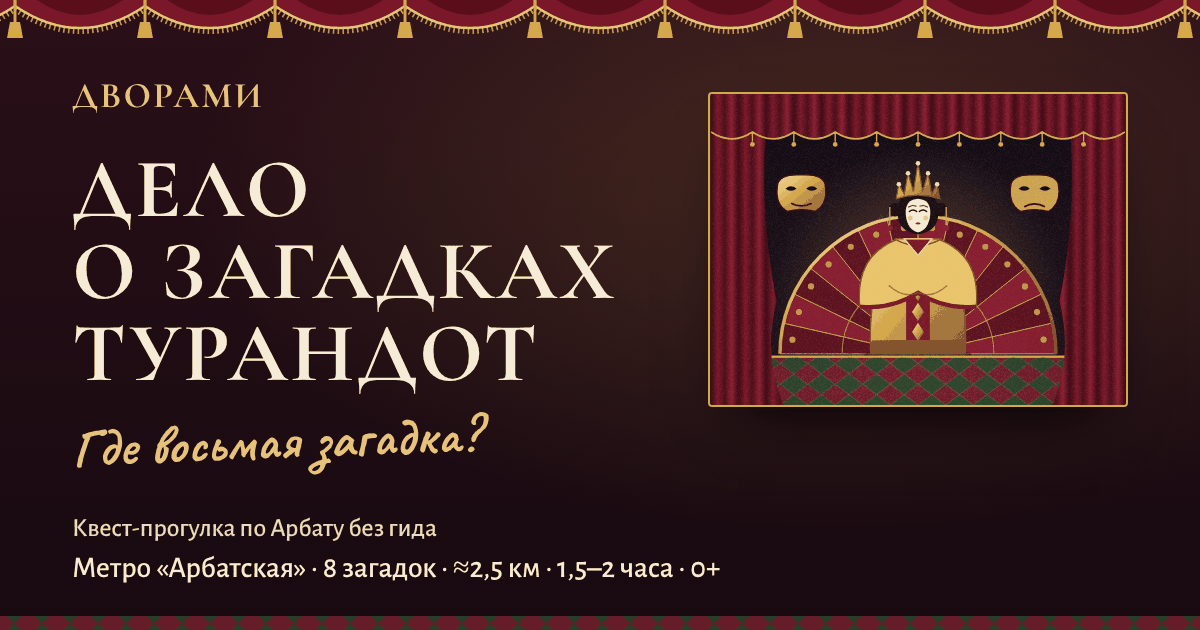
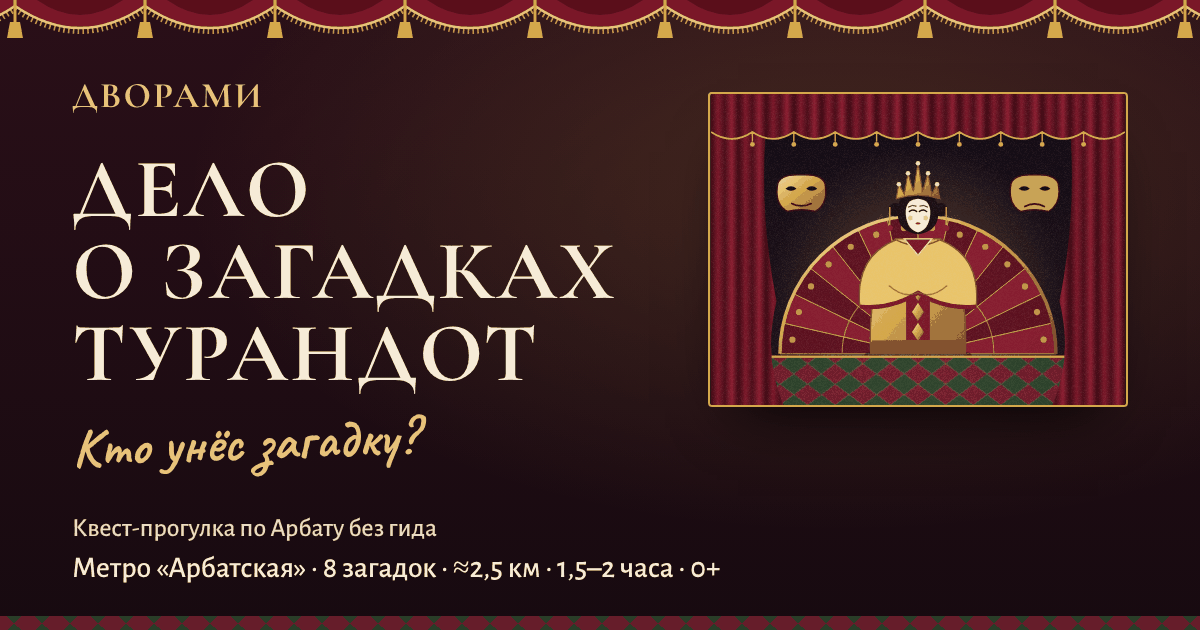
Крючки дел №2, 4, 6, 7 по 7 пунктам стандарта (T-146)
Тизер карточки и og:description начинаются вопросом дела, называют место, действие игрока и ставку; у №6 кнопка «Кто унёс загадку?» вместо «Где восьмая загадка?», OG arbat.png перерисован. Разбор вариантов — docs/marketing/hooks-2026-11-27.md; identity.md и card.md дел, пример в tone-of-voice.md. Правило длины уточнено: решает 4 строки на 390, а не 120 знаков.

Claude-Session: https://claude.ai/code/session_01HTbbVnH6ciWKjadneCiw9c

Changed region(s): [[0.0617, 0.6635, 0.4008, 0.754]]

diff --git a/site/index.html b/site/index.html
@@ -212,7 +212,7 @@
         <span class="qc-cover"><img src="assets/ill/case-02.svg" width="1200" height="900" loading="lazy" alt="Иллюстрация к делу №2: Чистые пруды и Покровка"><span class="qc-rating rating" data-rating="chistye-prudy-bashnya"></span></span>
         <h3 class="qc-title"><span class="qc-no">Дело №2</span> Башня выше Ивана Великого</h3>
         <span class="qc-where">Чистые пруды и&nbsp;Покровка</span>
-        <p>За что молния ударила в&nbsp;башню выше Ивана Великого? Кара за&nbsp;гордыню — или кто-то знал заранее?</p>
+        <p>Кто знал заранее, что в&nbsp;Меншикову башню ударит молния? Проверьте на&nbsp;Чистых прудах, кара&nbsp;ли это за&nbsp;гордыню.</p>
         <p class="qc-meta"><span class="nw">Метро «Чистые пруды» ·</span> <span class="nw">10&nbsp;точек ·</span> <span class="nw">≈3&nbsp;км ·</span> <span class="nw">2–2,5&nbsp;часа · 0+</span></p>
         <div class="qc-foot"><span class="qc-badge">В&nbsp;разработке</span></div>
         <a class="qc-btn" href="moscow/chistye-prudy-bashnya/" aria-label="Кто знал заранее? Подробнее о деле №2" data-track="quest_card" data-track-quest="chistye-prudy-bashnya" data-track-place="home" data-track-cta="ask">Кто знал заранее?</a>
@@ -230,7 +230,7 @@
         <span class="qc-cover"><img src="assets/ill/case-04.svg" width="1200" height="900" loading="lazy" alt="Иллюстрация к делу №4: Красная площадь"><span class="qc-rating rating" data-rating="krasnaya-ploshchad-imena"></span></span>
         <h3 class="qc-title"><span class="qc-no">Дело №4</span> Стёртые имена</h3>
         <span class="qc-where">Красная площадь и&nbsp;Александровский сад</span>
-        <p>Кто вписал чужие записи в&nbsp;ведомость 1936&nbsp;года? Перемерьте Красную площадь и&nbsp;найдите, чья это рука.</p>
+        <p>Кто вписал чужие записи в&nbsp;обмеры Красной площади 1936&nbsp;года? Перемерьте сами и&nbsp;решите, что вернуть на&nbsp;место.</p>
         <p class="qc-meta"><span class="nw">Метро «Александровский сад» ·</span> <span class="nw">9&nbsp;точек ·</span> <span class="nw">≈2&nbsp;км ·</span> <span class="nw">1,5–2&nbsp;часа · 0+</span></p>
         <div class="qc-foot"><span class="qc-badge">В&nbsp;разработке</span></div>
         <a class="qc-btn" href="moscow/krasnaya-ploshchad-imena/" aria-label="Чья это рука? Подробнее о деле №4" data-track="quest_card" data-track-quest="krasnaya-ploshchad-imena" data-track-place="home" data-track-cta="ask">Чья это рука?</a>
@@ -248,16 +248,16 @@
         <span class="qc-cover"><img src="assets/ill/case-06.svg" width="1200" height="900" loading="lazy" alt="Иллюстрация к делу №6: Арбат вечером"><span class="qc-rating rating" data-rating="arbat-gogol"></span></span>
         <h3 class="qc-title"><span class="qc-no">Дело №6</span> Загадки Турандот</h3>
         <span class="qc-where">Арбат и&nbsp;арбатские переулки</span>
-        <p>Какая из&nbsp;масок унесла восьмую загадку Турандот? На&nbsp;афише загадок восемь, а&nbsp;свитков у&nbsp;принцессы семь.</p>
+        <p>Какая из&nbsp;трёх масок унесла у&nbsp;принцессы Турандот восьмую загадку? Сверьте их показания с&nbsp;Арбатом и&nbsp;верните пропажу.</p>
         <p class="qc-meta"><span class="nw">Метро «Арбатская» ·</span> <span class="nw">8&nbsp;загадок ·</span> <span class="nw">≈2,5&nbsp;км ·</span> <span class="nw">1,5–2&nbsp;часа · 0+</span></p>
         <div class="qc-foot"><span class="qc-badge">В&nbsp;разработке</span></div>
-        <a class="qc-btn" href="moscow/arbat-gogol/" aria-label="Где восьмая загадка? Подробнее о деле №6" data-track="quest_card" data-track-quest="arbat-gogol" data-track-place="home" data-track-cta="ask">Где восьмая загадка?</a>
+        <a class="qc-btn" href="moscow/arbat-gogol/" aria-label="Кто унёс загадку? Подробнее о деле №6" data-track="quest_card" data-track-quest="arbat-gogol" data-track-place="home" data-track-cta="ask">Кто унёс загадку?</a>
       </li>
       <li class="qcard" data-status="dev" data-case="7">
         <span class="qc-cover"><img src="assets/ill/case-07.svg" width="1200" height="900" loading="lazy" alt="Иллюстрация к делу №7: ВДНХ"><span class="qc-rating rating" data-rating="vdnh-sestra"></span></span>
         <h3 class="qc-title"><span class="qc-no">Дело №7</span> Шестнадцатая сестра</h3>
         <span class="qc-where">ВДНХ · север Москвы</span>
-        <p>Кто из&nbsp;шестнадцати золотых сестёр у&nbsp;фонтана пишет вам открытки? Подпись одна: «ваша Шестнадцатая».</p>
+        <p>Кто из&nbsp;шестнадцати золотых сестёр с&nbsp;фонтана ВДНХ пишет открытки? Снимите для них выставку и&nbsp;найдите её&nbsp;в&nbsp;кругу.</p>
         <p class="qc-meta"><span class="nw">Метро «ВДНХ» ·</span> <span class="nw">8&nbsp;точек ·</span> <span class="nw">≈4,5&nbsp;км ·</span> <span class="nw">2–2,5&nbsp;часа · 0+</span></p>
         <div class="qc-foot"><span class="qc-badge">В&nbsp;разработке</span></div>
         <a class="qc-btn" href="moscow/vdnh-sestra/" aria-label="Кто пишет открытки? Подробнее о деле №7" data-track="quest_card" data-track-quest="vdnh-sestra" data-track-place="home" data-track-cta="ask">Кто пишет открытки?</a>

diff --git a/site/moscow/index.html b/site/moscow/index.html
@@ -127,7 +127,7 @@
         <span class="qc-cover"><img src="../assets/ill/case-02.svg" width="1200" height="900" loading="lazy" alt="Иллюстрация к делу №2: Чистые пруды и Покровка"><span class="qc-rating rating" data-rating="chistye-prudy-bashnya"></span></span>
         <h2 class="qc-title"><span class="qc-no">Дело №2</span> Башня выше Ивана Великого</h2>
         <span class="qc-where">Чистые пруды и&nbsp;Покровка</span>
-        <p>За что молния ударила в&nbsp;башню выше Ивана Великого? Кара за&nbsp;гордыню — или кто-то знал заранее?</p>
+        <p>Кто знал заранее, что в&nbsp;Меншикову башню ударит молния? Проверьте на&nbsp;Чистых прудах, кара&nbsp;ли это за&nbsp;гордыню.</p>
         <p class="qc-meta"><span class="nw">Метро «Чистые пруды» ·</span> <span class="nw">10&nbsp;точек ·</span> <span class="nw">≈3&nbsp;км ·</span> <span class="nw">2–2,5&nbsp;часа · 0+</span></p>
         <div class="qc-foot"><span class="qc-badge">В&nbsp;разработке</span></div>
         <a class="qc-btn" href="chistye-prudy-bashnya/" aria-label="Кто знал заранее? Подробнее о деле №2" data-track="quest_card" data-track-quest="chistye-prudy-bashnya" data-track-place="moscow" data-track-cta="ask">Кто знал заранее?</a>
@@ -145,7 +145,7 @@
         <span class="qc-cover"><img src="../assets/ill/case-04.svg" width="1200" height="900" loading="lazy" alt="Иллюстрация к делу №4: Красная площадь"><span class="qc-rating rating" data-rating="krasnaya-ploshchad-imena"></span></span>
         <h2 class="qc-title"><span class="qc-no">Дело №4</span> Стёртые имена</h2>
         <span class="qc-where">Красная площадь и&nbsp;Александровский сад</span>
-        <p>Кто вписал чужие записи в&nbsp;ведомость 1936&nbsp;года? Перемерьте Красную площадь и&nbsp;найдите, чья это рука.</p>
+        <p>Кто вписал чужие записи в&nbsp;обмеры Красной площади 1936&nbsp;года? Перемерьте сами и&nbsp;решите, что вернуть на&nbsp;место.</p>
         <p class="qc-meta"><span class="nw">Метро «Александровский сад» ·</span> <span class="nw">9&nbsp;точек ·</span> <span class="nw">≈2&nbsp;км ·</span> <span class="nw">1,5–2&nbsp;часа · 0+</span></p>
         <div class="qc-foot"><span class="qc-badge">В&nbsp;разработке</span></div>
         <a class="qc-btn" href="krasnaya-ploshchad-imena/" aria-label="Чья это рука? Подробнее о деле №4" data-track="quest_card" data-track-quest="krasnaya-ploshchad-imena" data-track-place="moscow" data-track-cta="ask">Чья это рука?</a>
@@ -163,16 +163,16 @@
         <span class="qc-cover"><img src="../assets/ill/case-06.svg" width="1200" height="900" loading="lazy" alt="Иллюстрация к делу №6: Арбат вечером"><span class="qc-rating rating" data-rating="arbat-gogol"></span></span>
         <h2 class="qc-title"><span class="qc-no">Дело №6</span> Загадки Турандот</h2>
         <span class="qc-where">Арбат и&nbsp;арбатские переулки</span>
-        <p>Какая из&nbsp;масок унесла восьмую загадку Турандот? На&nbsp;афише загадок восемь, а&nbsp;свитков у&nbsp;принцессы семь.</p>
+        <p>Какая из&nbsp;трёх масок унесла у&nbsp;принцессы Турандот восьмую загадку? Сверьте их показания с&nbsp;Арбатом и&nbsp;верните пропажу.</p>
         <p class="qc-meta"><span class="nw">Метро «Арбатская» ·</span> <span class="nw">8&nbsp;загадок ·</span> <span class="nw">≈2,5&nbsp;км ·</span> <span class="nw">1,5–2&nbsp;часа · 0+</span></p>
         <div class="qc-foot"><span class="qc-badge">В&nbsp;разработке</span></div>
-        <a class="qc-btn" href="arbat-gogol/" aria-label="Где восьмая загадка? Подробнее о деле №6" data-track="quest_card" data-track-quest="arbat-gogol" data-track-place="moscow" data-track-cta="ask">Где восьмая загадка?</a>
+        <a class="qc-btn" href="arbat-gogol/" aria-label="Кто унёс загадку? Подробнее о деле №6" data-track="quest_card" data-track-quest="arbat-gogol" data-track-place="moscow" data-track-cta="ask">Кто унёс загадку?</a>
       </li>
       <li class="qcard" id="case-7" data-status="dev" data-case="7">
         <span class="qc-cover"><img src="../assets/ill/case-07.svg" width="1200" height="900" loading="lazy" alt="Иллюстрация к делу №7: ВДНХ"><span class="qc-rating rating" data-rating="vdnh-sestra"></span></span>
         <h2 class="qc-title"><span class="qc-no">Дело №7</span> Шестнадцатая сестра</h2>
         <span class="qc-where">ВДНХ · север Москвы</span>
-        <p>Кто из&nbsp;шестнадцати золотых сестёр у&nbsp;фонтана пишет вам открытки? Подпись одна: «ваша Шестнадцатая».</p>
+        <p>Кто из&nbsp;шестнадцати золотых сестёр с&nbsp;фонтана ВДНХ пишет открытки? Снимите для них выставку и&nbsp;найдите её&nbsp;в&nbsp;кругу.</p>
         <p class="qc-meta"><span class="nw">Метро «ВДНХ» ·</span> <span class="nw">8&nbsp;точек ·</span> <span class="nw">≈4,5&nbsp;км ·</span> <span class="nw">2–2,5&nbsp;часа · 0+</span></p>
         <div class="qc-foot"><span class="qc-badge">В&nbsp;разработке</span></div>
         <a class="qc-btn" href="vdnh-sestra/" aria-label="Кто пишет открытки? Подробнее о деле №7" data-track="quest_card" data-track-quest="vdnh-sestra" data-track-place="moscow" data-track-cta="ask">Кто пишет открытки?</a>

diff --git a/site/moscow/chistye-prudy-bashnya/index.html b/site/moscow/chistye-prudy-bashnya/index.html
@@ -15,7 +15,7 @@
 <meta property="og:site_name" content="Дворами">
 <meta property="og:locale" content="ru_RU">
 <meta property="og:title" content="Дело о башне выше Ивана Великого — квест-прогулка по Чистым прудам и Покровке">
-<meta property="og:description" content="В башню, которая спорила высотой с Иваном Великим, ударила молния. Кара за гордыню — или кто-то знал заранее? Квест-прогулка без гида по Чистым прудам и Покровке.">
+<meta property="og:description" content="Кто знал заранее, что в Меншикову башню ударит молния? Проверьте на Чистых прудах, кара ли это за гордыню. Квест-прогулка без гида, старт у метро «Чистые пруды».">
 <meta property="og:url" content="https://dvorami.ru/moscow/chistye-prudy-bashnya/">
 <meta property="og:image" content="https://dvorami.ru/assets/og/chistye.png">
 <meta property="og:image:width" content="1200">

diff --git a/site/moscow/arbat-gogol/index.html b/site/moscow/arbat-gogol/index.html
@@ -15,7 +15,7 @@
 <meta property="og:site_name" content="Дворами">
 <meta property="og:locale" content="ru_RU">
 <meta property="og:title" content="Дело о загадках Турандот — квест-прогулка по Арбату">
-<meta property="og:description" content="Какая из масок унесла восьмую загадку принцессы Турандот? На афише загадок восемь, а свитков семь. Отгадайте семь на Арбате — и найдёте вора. Квест-прогулка без гида.">
+<meta property="og:description" content="Какая из трёх масок унесла у принцессы Турандот восьмую загадку? Сверьте их показания с Арбатом и верните пропажу. Квест-прогулка без гида, старт у метро «Арбатская».">
 <meta property="og:url" content="https://dvorami.ru/moscow/arbat-gogol/">
 <meta property="og:image" content="https://dvorami.ru/assets/og/arbat.png">
 <meta property="og:image:width" content="1200">

diff --git a/site/moscow/vdnh-sestra/index.html b/site/moscow/vdnh-sestra/index.html
@@ -15,7 +15,7 @@
 <meta property="og:site_name" content="Дворами">
 <meta property="og:locale" content="ru_RU">
 <meta property="og:title" content="Дело о шестнадцатой сестре — квест-прогулка по ВДНХ">
-<meta property="og:description" content="Кто из шестнадцати золотых сестёр у фонтана пишет открытки? Подпись — «ваша Шестнадцатая», обратного адреса нет. Соберите альбом и найдите её. Квест-прогулка без гида по ВДНХ.">
+<meta property="og:description" content="Кто из шестнадцати золотых сестёр с фонтана ВДНХ пишет открытки? Снимите для них выставку и найдите её в кругу. Квест-прогулка без гида: 8 точек, около 4,5 км.">
 <meta property="og:url" content="https://dvorami.ru/moscow/vdnh-sestra/">
 <meta property="og:image" content="https://dvorami.ru/assets/og/vdnh.png">
 <meta property="og:image:width" content="1200">

diff --git a/site/moscow/krasnaya-ploshchad-imena/index.html b/site/moscow/krasnaya-ploshchad-imena/index.html
@@ -15,7 +15,7 @@
 <meta property="og:site_name" content="Дворами">
 <meta property="og:locale" content="ru_RU">
 <meta property="og:title" content="Дело о стёртых именах — квест-прогулка по Красной площади">
-<meta property="og:description" content="Кто вписал чужие записи в обмерную ведомость 1936 года — и зачем? Перемерьте Красную площадь и найдите, чья это рука. Квест-прогулка без гида.">
+<meta property="og:description" content="Кто вписал чужие записи в обмеры Красной площади 1936 года? Перемерьте сами и решите, что вернуть на место. Квест-прогулка без гида, старт у метро «Александровский сад».">
 <meta property="og:url" content="https://dvorami.ru/moscow/krasnaya-ploshchad-imena/">
 <meta property="og:image" content="https://dvorami.ru/assets/og/krasnaya.png">
 <meta property="og:image:width" content="1200">

diff --git a/platform/site/cases/c6_arbat.py b/platform/site/cases/c6_arbat.py
@@ -12,14 +12,14 @@ CASE = {
     # site_check сверяет её с этой страницей (номер, название, статус, цифры, метро).
     'card': {
         'where': 'Арбат и&nbsp;арбатские переулки',
-        'teaser': 'Какая из&nbsp;масок унесла восьмую загадку Турандот? На&nbsp;афише загадок восемь, а&nbsp;свитков у&nbsp;принцессы семь.',
-        'ask': 'Где восьмая загадка?',  # H-37: вопрос дела на кнопке карточки (короткий, ≤ 20 знаков: одна строка в 4 колонки на 1440)
+        'teaser': 'Какая из&nbsp;трёх масок унесла у&nbsp;принцессы Турандот восьмую загадку? Сверьте их показания с&nbsp;Арбатом и&nbsp;верните пропажу.',  # крючок 27.11: docs/marketing/hooks-2026-11-27.md
+        'ask': 'Кто унёс загадку?',  # H-37: вопрос дела на кнопке карточки (короткий, ≤ 20 знаков: одна строка в 4 колонки на 1440)
         'meta': 'Метро «Арбатская» · 8&nbsp;загадок · ≈2,5&nbsp;км · 1,5–2&nbsp;часа · 0+',
         'img': 'case-06.svg', 'alt': 'Иллюстрация к делу №6: Арбат вечером',
     },
     'meta_title': 'Квест по Арбату без гида: загадки Турандот | Дворами',
     'meta_description': 'Квест-прогулка без гида по Арбату и переулкам: два памятника Гоголю, фонтан «Принцесса Турандот», дом Мельникова. Факты сверены, старт у метро «Арбатская».',
-    'og_description': 'Какая из масок унесла восьмую загадку принцессы Турандот? На афише загадок восемь, а свитков семь. Отгадайте семь на Арбате — и найдёте вора. Квест-прогулка без гида.',
+    'og_description': 'Какая из трёх масок унесла у принцессы Турандот восьмую загадку? Сверьте их показания с Арбатом и верните пропажу. Квест-прогулка без гида, старт у метро «Арбатская».',
     'og_image': 'https://dvorami.ru/assets/og/arbat.png',  # T-128: рисует scripts/make_og.py из card
     'ld_description': 'Квест-прогулка без гида по Арбату и арбатским переулкам: 8 точек, около 2,5 км, 1,5–2 часа. Старт у памятника Гоголю на Гоголевском бульваре, в 2 минутах от метро «Арбатская», финиш у памятника Пушкину и Гончаровой, в 3 минутах от метро «Смоленская». Квест в разработке.',
     'ld_about': [

diff --git a/platform/site/cases/c4_krasnaya.py b/platform/site/cases/c4_krasnaya.py
@@ -10,14 +10,14 @@ CASE = {
     # site_check сверяет её с этой страницей (номер, название, статус, цифры, метро).
     'card': {
         'where': 'Красная площадь и&nbsp;Александровский сад',
-        'teaser': 'Кто вписал чужие записи в&nbsp;ведомость 1936&nbsp;года? Перемерьте Красную площадь и&nbsp;найдите, чья это рука.',
+        'teaser': 'Кто вписал чужие записи в&nbsp;обмеры Красной площади 1936&nbsp;года? Перемерьте сами и&nbsp;решите, что вернуть на&nbsp;место.',  # крючок 27.11: docs/marketing/hooks-2026-11-27.md
         'ask': 'Чья это рука?',  # H-37: вопрос дела на кнопке карточки (короткий, ≤ 20 знаков: одна строка в 4 колонки на 1440)
         'meta': 'Метро «Александровский сад» · 9&nbsp;точек · ≈2&nbsp;км · 1,5–2&nbsp;часа · 0+',
         'img': 'case-04.svg', 'alt': 'Иллюстрация к делу №4: Красная площадь',
     },
     'meta_title': 'Квест по Красной площади без гида: «Стёртые имена» | Дворами',
     'meta_description': 'Квест-прогулка без гида по Красной площади и Александровскому саду: Манеж, грот «Руины», Казанский собор. Факты сверены, старт у метро «Александровский сад».',
-    'og_description': 'Кто вписал чужие записи в обмерную ведомость 1936 года — и зачем? Перемерьте Красную площадь и найдите, чья это рука. Квест-прогулка без гида.',
+    'og_description': 'Кто вписал чужие записи в обмеры Красной площади 1936 года? Перемерьте сами и решите, что вернуть на место. Квест-прогулка без гида, старт у метро «Александровский сад».',
     'og_image': 'https://dvorami.ru/assets/og/krasnaya.png',  # T-128: рисует scripts/make_og.py из card
     'ld_description': 'Квест-прогулка без гида по Красной площади и Александровскому саду: 9 точек, около 2 км, 1,5–2 часа. Старт у Кутафьей башни, в 3 минутах от метро «Александровский сад», финиш у памятника Минину и Пожарскому, около 10 минут до метро «Площадь Революции». Квест в разработке.',
     'ld_about': [

diff --git a/platform/site/cases/c2_chistye.py b/platform/site/cases/c2_chistye.py
@@ -9,14 +9,14 @@ CASE = {
     # site_check сверяет её с этой страницей (номер, название, статус, цифры, метро).
     'card': {
         'where': 'Чистые пруды и&nbsp;Покровка',
-        'teaser': 'За что молния ударила в&nbsp;башню выше Ивана Великого? Кара за&nbsp;гордыню — или кто-то знал заранее?',
+        'teaser': 'Кто знал заранее, что в&nbsp;Меншикову башню ударит молния? Проверьте на&nbsp;Чистых прудах, кара&nbsp;ли это за&nbsp;гордыню.',  # крючок 27.11: docs/marketing/hooks-2026-11-27.md
         'ask': 'Кто знал заранее?',  # H-37: вопрос дела на кнопке карточки (короткий, ≤ 20 знаков: одна строка в 4 колонки на 1440)
         'meta': 'Метро «Чистые пруды» · 10&nbsp;точек · ≈3&nbsp;км · 2–2,5&nbsp;часа · 0+',
         'img': 'case-02.svg', 'alt': 'Иллюстрация к делу №2: Чистые пруды и Покровка',
     },
     'meta_title': 'Квест по Чистым прудам без гида: Меншикова башня | Дворами',
     'meta_description': 'Квест-прогулка без гида по Чистым прудам и Покровке: Меншикова башня, Дом-комод, чайный дом Перлова. Факты сверены с источниками, старт у метро «Чистые пруды».',
-    'og_description': 'В башню, которая спорила высотой с Иваном Великим, ударила молния. Кара за гордыню — или кто-то знал заранее? Квест-прогулка без гида по Чистым прудам и Покровке.',
+    'og_description': 'Кто знал заранее, что в Меншикову башню ударит молния? Проверьте на Чистых прудах, кара ли это за гордыню. Квест-прогулка без гида, старт у метро «Чистые пруды».',
     'og_image': 'https://dvorami.ru/assets/og/chistye.png',  # T-128: рисует scripts/make_og.py из card
     'ld_description': 'Квест-прогулка без гида по Чистым прудам и Покровке: 10 точек, около 3 км, 2–2,5 часа. Старт у метро «Чистые пруды», финиш на Покровке у Дома-комода, оттуда около 10 минут бульваром до метро. Квест в разработке.',
     'ld_about': [

diff --git a/platform/site/cases/c7_vdnh.py b/platform/site/cases/c7_vdnh.py
@@ -11,14 +11,14 @@ CASE = {
     # site_check сверяет её с этой страницей (номер, название, статус, цифры, метро).
     'card': {
         'where': 'ВДНХ · север Москвы',
-        'teaser': 'Кто из&nbsp;шестнадцати золотых сестёр у&nbsp;фонтана пишет вам открытки? Подпись одна: «ваша Шестнадцатая».',
+        'teaser': 'Кто из&nbsp;шестнадцати золотых сестёр с&nbsp;фонтана ВДНХ пишет открытки? Снимите для них выставку и&nbsp;найдите её&nbsp;в&nbsp;кругу.',  # крючок 27.11: docs/marketing/hooks-2026-11-27.md
         'ask': 'Кто пишет открытки?',  # H-37: вопрос дела на кнопке карточки (короткий, ≤ 20 знаков: одна строка в 4 колонки на 1440)
         'meta': 'Метро «ВДНХ» · 8&nbsp;точек · ≈4,5&nbsp;км · 2–2,5&nbsp;часа · 0+',
         'img': 'case-07.svg', 'alt': 'Иллюстрация к делу №7: ВДНХ',
     },
     'meta_title': 'Квест по ВДНХ без гида: фонтан «Дружба народов» | Дворами',
     'meta_description': 'Квест-прогулка без гида по ВДНХ: «Рабочий и колхозница», арка Главного входа, фонтан «Дружба народов». Факты сверены, старт в 10 минутах от метро «ВДНХ».',
-    'og_description': 'Кто из шестнадцати золотых сестёр у фонтана пишет открытки? Подпись — «ваша Шестнадцатая», обратного адреса нет. Соберите альбом и найдите её. Квест-прогулка без гида по ВДНХ.',
+    'og_description': 'Кто из шестнадцати золотых сестёр с фонтана ВДНХ пишет открытки? Снимите для них выставку и найдите её в кругу. Квест-прогулка без гида: 8 точек, около 4,5 км.',
     'og_image': 'https://dvorami.ru/assets/og/vdnh.png',  # T-128: рисует scripts/make_og.py из card
     'ld_description': 'Квест-прогулка без гида по ВДНХ: 8 точек, около 4,5 км, 2–2,5 часа. Старт у «Рабочего и колхозницы», в 10 минутах от метро «ВДНХ», финиш у фонтана «Дружба народов», оттуда около 20 минут до метро. Квест в разработке.',
     'ld_about': [

diff --git a/docs/marketing/hooks-2026-11-27.md b/docs/marketing/hooks-2026-11-27.md
@@ -1,4 +1,4 @@
-# Крючки дел №1 (ЗИЛАРТ) и №3 (Коломенское): разбор 27.11.2026
+# Крючки дел: разбор 27.11.2026 (№1 и №3 — утро, №2, 4, 6, 7 — вечер)
 
 Маркетолог, по вопросу владельца 27.11: хороши ли эти фразы как довод купить квест. Речь о первой строке карточки дела (`card.teaser`), начале превью в мессенджерах (`og_description`) и кнопке (`card.ask`). Критерии записаны правилом в `team/roles/marketer.md`, «Крючок дела». Рекомендованные варианты уже на витрине, отклонённые остались здесь.
 
@@ -70,9 +70,91 @@
 - `site/llms.txt` не менялся: в строках дел пересказан сюжет, а не крючок, и он совпадает со сценарием.
 - Посты канала этих фраз не содержат.
 
-## Что проверить у остальных дел (по тем же 7 пунктам)
+## Остальные дела: №2, 4, 6, 7 (T-146, вечер 27.11)
 
-- №2 «Чистые пруды»: в тизере нет места и действия игрока, а `og_description` начинается не с вопроса (п. 1, 2).
-- №4 «Красная площадь»: вопрос в тизере и в `og_description` разный («…ведомость 1936 года?» / «…— и зачем?»), п. 1.
-- №6 «Арбат»: во второй фразе нет действия игрока, только условие («свитков семь»), п. 2.
-- №7 «ВДНХ»: «Соберите альбом» в превью — способ, а не роль (`tone-of-voice.md`, «Крючок»), п. 2.
+Почему прежние крючки не проходили: у №2 в тизере не было места и действия игрока, а превью начиналось не с вопроса; у №4 в тизере и превью стояли разные вопросы и не было ставки; у №6 вторая фраза — условие игры («свитков семь»), а не действие, и кнопка «Где восьмая загадка?» задавала другой вопрос, чем дело; у №7 не было ни ВДНХ, ни действия, а в превью — способ («соберите альбом») вместо роли.
+
+**Длина на деле строже 120 знаков.** Замер на главной на ширине 390 (карточка 262 px): тизеры в 113–119 знаков с длинными словами («шестнадцати», «Перемерьте») уходят в 5 строк и обрезаются, а в 106–111 — помещаются. Поэтому в столбце 7 — замер `site_check` (4 строки на 390), а не только счёт знаков. Правило уточнено в `team/roles/marketer.md`, п. 7.
+
+### Дело №2, Чистые пруды
+
+Вопрос дела: сценария пока нет, только набросок `story/draft-v0.md`. Вопрос взят из письма без подписи: «Спросите того, кто знал заранее»; на странице — «Кто знал заранее — и о чём?». Кнопка «Кто знал заранее?». В `identity.md` вопроса дела не было, теперь он записан.
+
+| | Вариант | Знаков | 1 | 2 | 3 | 4 | 5 | 6 | 7 |
+|---|---|---|---|---|---|---|---|---|---|
+| было | За что молния ударила в башню выше Ивана Великого? Кара за гордыню — или кто-то знал заранее? | 93 | ½ | ✕ | ½ | ✓ | ✓ | ✓ | ✓ |
+| **Ч1 ★** | **Кто знал заранее, что в Меншикову башню ударит молния? Проверьте на Чистых прудах, кара ли это за гордыню.** | 106 | ✓ | ✓ | ✓ | ✓ | ✓ | ✓ | ✓ |
+| Ч2 | Кто знал заранее, что молния ударит в башню выше Ивана Великого? Проверьте слухи на Чистых прудах и Покровке. | 109 | ✓ | ✓ | ✓ | ✕ | ✓ | ½ | ✓ |
+| Ч3 | Кара за гордыню — или кто-то знал заранее? Выясните на Чистых прудах, почему молния ударила в башню выше Ивана Великого. | 120 | ½ | ✓ | ✕ | ✓ | ✓ | ½ | ✕ |
+| Ч4 | Кто знал заранее, что молния ударит в башню выше Ивана Великого? Разберите слухи на Чистых прудах и ответьте на письмо. | 119 | ✓ | ✓ | ½ | ½ | ½ | ½ | ✕ |
+
+- **Ч1 — выбран.** Вопрос тот же, что на кнопке. Место — Чистые пруды, действие — «проверьте». Ставка — кара это или нет: вокруг этого спорят все слухи дела. Башня названа своим именем, а не «выше Ивана Великого». Причин две. Рядом со словами «знал заранее» высота подталкивает к разгадке (п. 6), а название дела над тизером и так говорит о высоте. Кроме того, «Меншикова башня» — то, что ищут в поиске (карта запросов, раздел 3). Ребёнок перескажет так: «узнаем на Чистых прудах, кто знал, что в башню ударит молния, и наказание ли это». Вариант с «правда ли это кара» (113 знаков) на 390 занимал 5 строк.
+- Ч2 — без ставки, и высота стоит рядом со «знал заранее».
+- Ч3 начинается с ложной версии, а тайн две: «кто знал» и «почему ударила». Вопрос «почему ударила» — это и есть разгадка письма. 5 строк.
+- Ч4: читатель без страницы не поймёт, о каком письме речь. 5 строк.
+
+`og_description`: «Кто знал заранее, что в Меншикову башню ударит молния? Проверьте на Чистых прудах, кара ли это за гордыню. Квест-прогулка без гида, старт у метро «Чистые пруды».» (161). Кнопка и OG-картинка не менялись. Когда появится сценарий, крючок нужно сверить с его «Вопросом дела».
+
+### Дело №4, Красная площадь
+
+Вопрос дела в сценарии (`scenario-v2.md`, «Редакция 24.11»): «Кто вписал чужие записи в обмерную ведомость 1936 года — и зачем?» Кнопка «Чья это рука?».
+
+| | Вариант | Знаков | 1 | 2 | 3 | 4 | 5 | 6 | 7 |
+|---|---|---|---|---|---|---|---|---|---|
+| было | Кто вписал чужие записи в ведомость 1936 года? Перемерьте Красную площадь и найдите, чья это рука. | 98 | ½ | ✓ | ✓ | ✕ | ½ | ✓ | ✓ |
+| **Кр1 ★** | **Кто вписал чужие записи в обмеры Красной площади 1936 года? Перемерьте сами и решите, что вернуть на место.** | 107 | ✓ | ✓ | ✓ | ✓ | ✓ | ✓ | ✓ |
+| Кр2 | Кто вписал чужие записи в обмеры Красной площади 1936 года? Перемерьте сами: по верным цифрам снесённое можно вернуть. | 117 | ✓ | ✓ | ✓ | ✓ | ✓ | ✓ | ✕ |
+| Кр3 | Кто вписал чужие записи в обмеры Красной площади 1936 года — и зачем? Перемерьте её сами и найдите, чья это рука. | 113 | ✓ | ✓ | ✓ | ½ | ✓ | ✓ | ✕ |
+| Кр4 | Чья рука вписала чужие цифры в обмеры Красной площади 1936 года? Перемерьте площадь сами — камень с тех пор не переписывали. | 124 | ½ | ✓ | ✓ | ✕ | ½ | ✓ | ✕ |
+
+- **Кр1 — выбран.** Это вопрос сценария, только «ведомость» заменена на «обмеры Красной площади». Из одного слова «ведомость» непонятно, чья она и о чём, а «обмеры» связаны с «перемерьте». Ставка — последняя графа «Вернуть?»: после разгадки игрок сам решает, что вернуть, и концовок у дела две. «На место» — так и было на этой площади: собор выстроили заново на его углу, памятник Минину и Пожарскому передвинули. Кнопка «Чья это рука?» — короткая форма того же вопроса.
+- Кр2 — та же ставка, сказанная как факт, тоже верная: Казанский собор восстановили по обмерам Барановского. На 390 — 5 строк.
+- Кр3: «и зачем» — это мотив, а не ставка. 5 строк.
+- Кр4: «камень не переписывали» — образ из игры, без страницы он непонятен. 124 знака.
+
+`og_description`: «Кто вписал чужие записи в обмеры Красной площади 1936 года? Перемерьте сами и решите, что вернуть на место. Квест-прогулка без гида, старт у метро «Александровский сад».» (169). Кнопка и OG-картинка не менялись.
+
+### Дело №6, Арбат
+
+Вопрос дела в сценарии: «Какая из масок унесла восьмую загадку?» В финале игрок называет маску, вор возвращает свиток, и принцесса загадывает восьмую загадку (`scenario-v2.md`, «Финал»).
+
+| | Вариант | Знаков | 1 | 2 | 3 | 4 | 5 | 6 | 7 |
+|---|---|---|---|---|---|---|---|---|---|
+| было | Какая из масок унесла восьмую загадку Турандот? На афише загадок восемь, а свитков у принцессы семь. | 100 | ½ | ✕ | ✓ | ✕ | ½ | ✓ | ✓ |
+| **Ар1 ★** | **Какая из трёх масок унесла у принцессы Турандот восьмую загадку? Сверьте их показания с Арбатом и верните пропажу.** | 114 | ✓ | ✓ | ✓ | ✓ | ✓ | ✓ | ✓ |
+| Ар2 | Какая из театральных масок унесла восьмую загадку принцессы Турандот? Отгадайте семь других на Арбате и назовите вора. | 118 | ✓ | ✓ | ✓ | ✕ | ✓ | ✓ | ✕ |
+| Ар3 | Какая из масок унесла восьмую загадку принцессы Турандот? Отгадайте остальные семь на Арбате — и вор найдётся. | 110 | ✓ | ✓ | ✓ | ½ | ½ | ✓ | ✓ |
+
+- **Ар1 — выбран.** «Трёх» показывает, что маски — это персонажи, и их трое, как на странице. Место и действие: «сверьте их показания с Арбатом» — так игрок и ведёт дело. Ставка «верните пропажу» верна и по развязке: назовёте вора — свиток вернётся. Слово «загадка» звучит один раз, а не трижды. В 114 знаков тизер уложился в 4 строки на 390, потому что слова в нём короче.
+- **Кнопка: «Где восьмая загадка?» → «Кто унёс загадку?»** (17 знаков). Дело спрашивает, кто унёс, а не где лежит свиток. Прежняя кнопка была другим вопросом (п. 1). OG `arbat.png` перерисован (`make_og.py`).
+- Ар2: «назовите вора» — это сам ответ, а не ставка. 5 строк.
+- Ар3: «вор найдётся» обещает, что вор найдётся сам, а его нужно вычислить по показаниям. Без «трёх» маски читаются как предметы.
+
+`og_description`: «Какая из трёх масок унесла у принцессы Турандот восьмую загадку? Сверьте их показания с Арбатом и верните пропажу. Квест-прогулка без гида, старт у метро «Арбатская».» (166).
+
+### Дело №7, ВДНХ
+
+Вопрос дела в сценарии: «Кто из шестнадцати сестёр пишет открытки?» Кнопка «Кто пишет открытки?».
+
+| | Вариант | Знаков | 1 | 2 | 3 | 4 | 5 | 6 | 7 |
+|---|---|---|---|---|---|---|---|---|---|
+| было | Кто из шестнадцати золотых сестёр у фонтана пишет вам открытки? Подпись одна: «ваша Шестнадцатая». | 98 | ✓ | ✕ | ✓ | ✕ | ½ | ✓ | ✓ |
+| **В1 ★** | **Кто из шестнадцати золотых сестёр с фонтана ВДНХ пишет открытки? Снимите для них выставку и найдите её в кругу.** | 111 | ✓ | ✓ | ✓ | ½ | ✓ | ✓ | ✓ |
+| В2 | Кто из шестнадцати золотых сестёр с фонтана ВДНХ пишет вам открытки? Снимите виды, которых они не видели, и найдите её. | 119 | ✓ | ✓ | ✓ | ½ | ✕ | ✓ | ✕ |
+| В3 | Кто из шестнадцати золотых сестёр фонтана на ВДНХ пишет вам открытки? Снимите для неё выставку и найдите её в кругу. | 116 | ✓ | ✓ | ✓ | ½ | ✕ | ✓ | ✓ |
+| В4 | Кто из шестнадцати золотых сестёр с фонтана ВДНХ пишет открытки? Снимите виды, о которых она просит, и найдите её. | 114 | ✓ | ✓ | ✓ | ✕ | ½ | ✓ | ✕ |
+
+- **В1 — выбран.** Вопрос сценария дословно, только с «золотых» и «с фонтана ВДНХ». Место названо, роль фотографа — «снимите». «Для них» верно и по развязке: в письме сёстры пишут, что «почти ничего здесь не видели», а альбом получает одна из них. Ставка — ½, и честно иначе не выходит. Настоящая ставка дела — для кого собирают альбом, и это поворот развязки (`scenario-v2.md`, «Поворот»). В крючке её назвать нельзя, поэтому ставка здесь — желание сестёр увидеть выставку.
+- В2 неверен по сценарию: шпиль и «Каменный цветок» отправительница со своего места видит, на этом построены улики т. 3 и 5. 5 строк.
+- В3 неверен по развязке: «для неё» подменяет, для кого на самом деле просят открытки.
+- В4 — без ставки, местоимение «её» по смыслу звучит трижды. 5 строк.
+
+`og_description`: «Кто из шестнадцати золотых сестёр с фонтана ВДНХ пишет открытки? Снимите для них выставку и найдите её в кругу. Квест-прогулка без гида: 8 точек, около 4,5 км.» (159). «Соберите альбом» из превью убран. Кнопка и OG-картинка не менялись.
+
+### Где применено (дела 2, 4, 6, 7)
+
+- `platform/site/cases/c2_chistye.py`, `c4_krasnaya.py`, `c6_arbat.py`, `c7_vdnh.py`: `card.teaser`, `og_description`, у №6 — `card.ask` → `scripts/build_cases.py` (страницы дел, карточки на главной и в `/moscow/`), `scripts/make_og.py` (`arbat.png`).
+- `quests/*/identity.md` — «Крючок карточки» (у №2 добавлен «Вопрос дела»); `quests/krasnaya-ploshchad/card.md`, `arbat/card.md`, `vdnh/card.md` — «Подзаголовок».
+- `docs/marketing/tone-of-voice.md`, «Так / не так» — пример крючка заменён на Ар1, прежний перенесён в «не так» с причиной.
+- Посты канала этих фраз не содержат. Строки `llms.txt` пересказывают сюжет, а не крючок, и сверены отдельно (`docs/seo/audit-2026-11-27.md`).
+- Дело №5 (Китай-город) не входило в задачу. Тизер начинается с вопроса дела, в нём есть место (Никольская) и роль («новичок здесь вы»), но нет ставки и действия. В превью — способ («напечатайте шуточный лист»). Проверить по тем же 7 пунктам.
